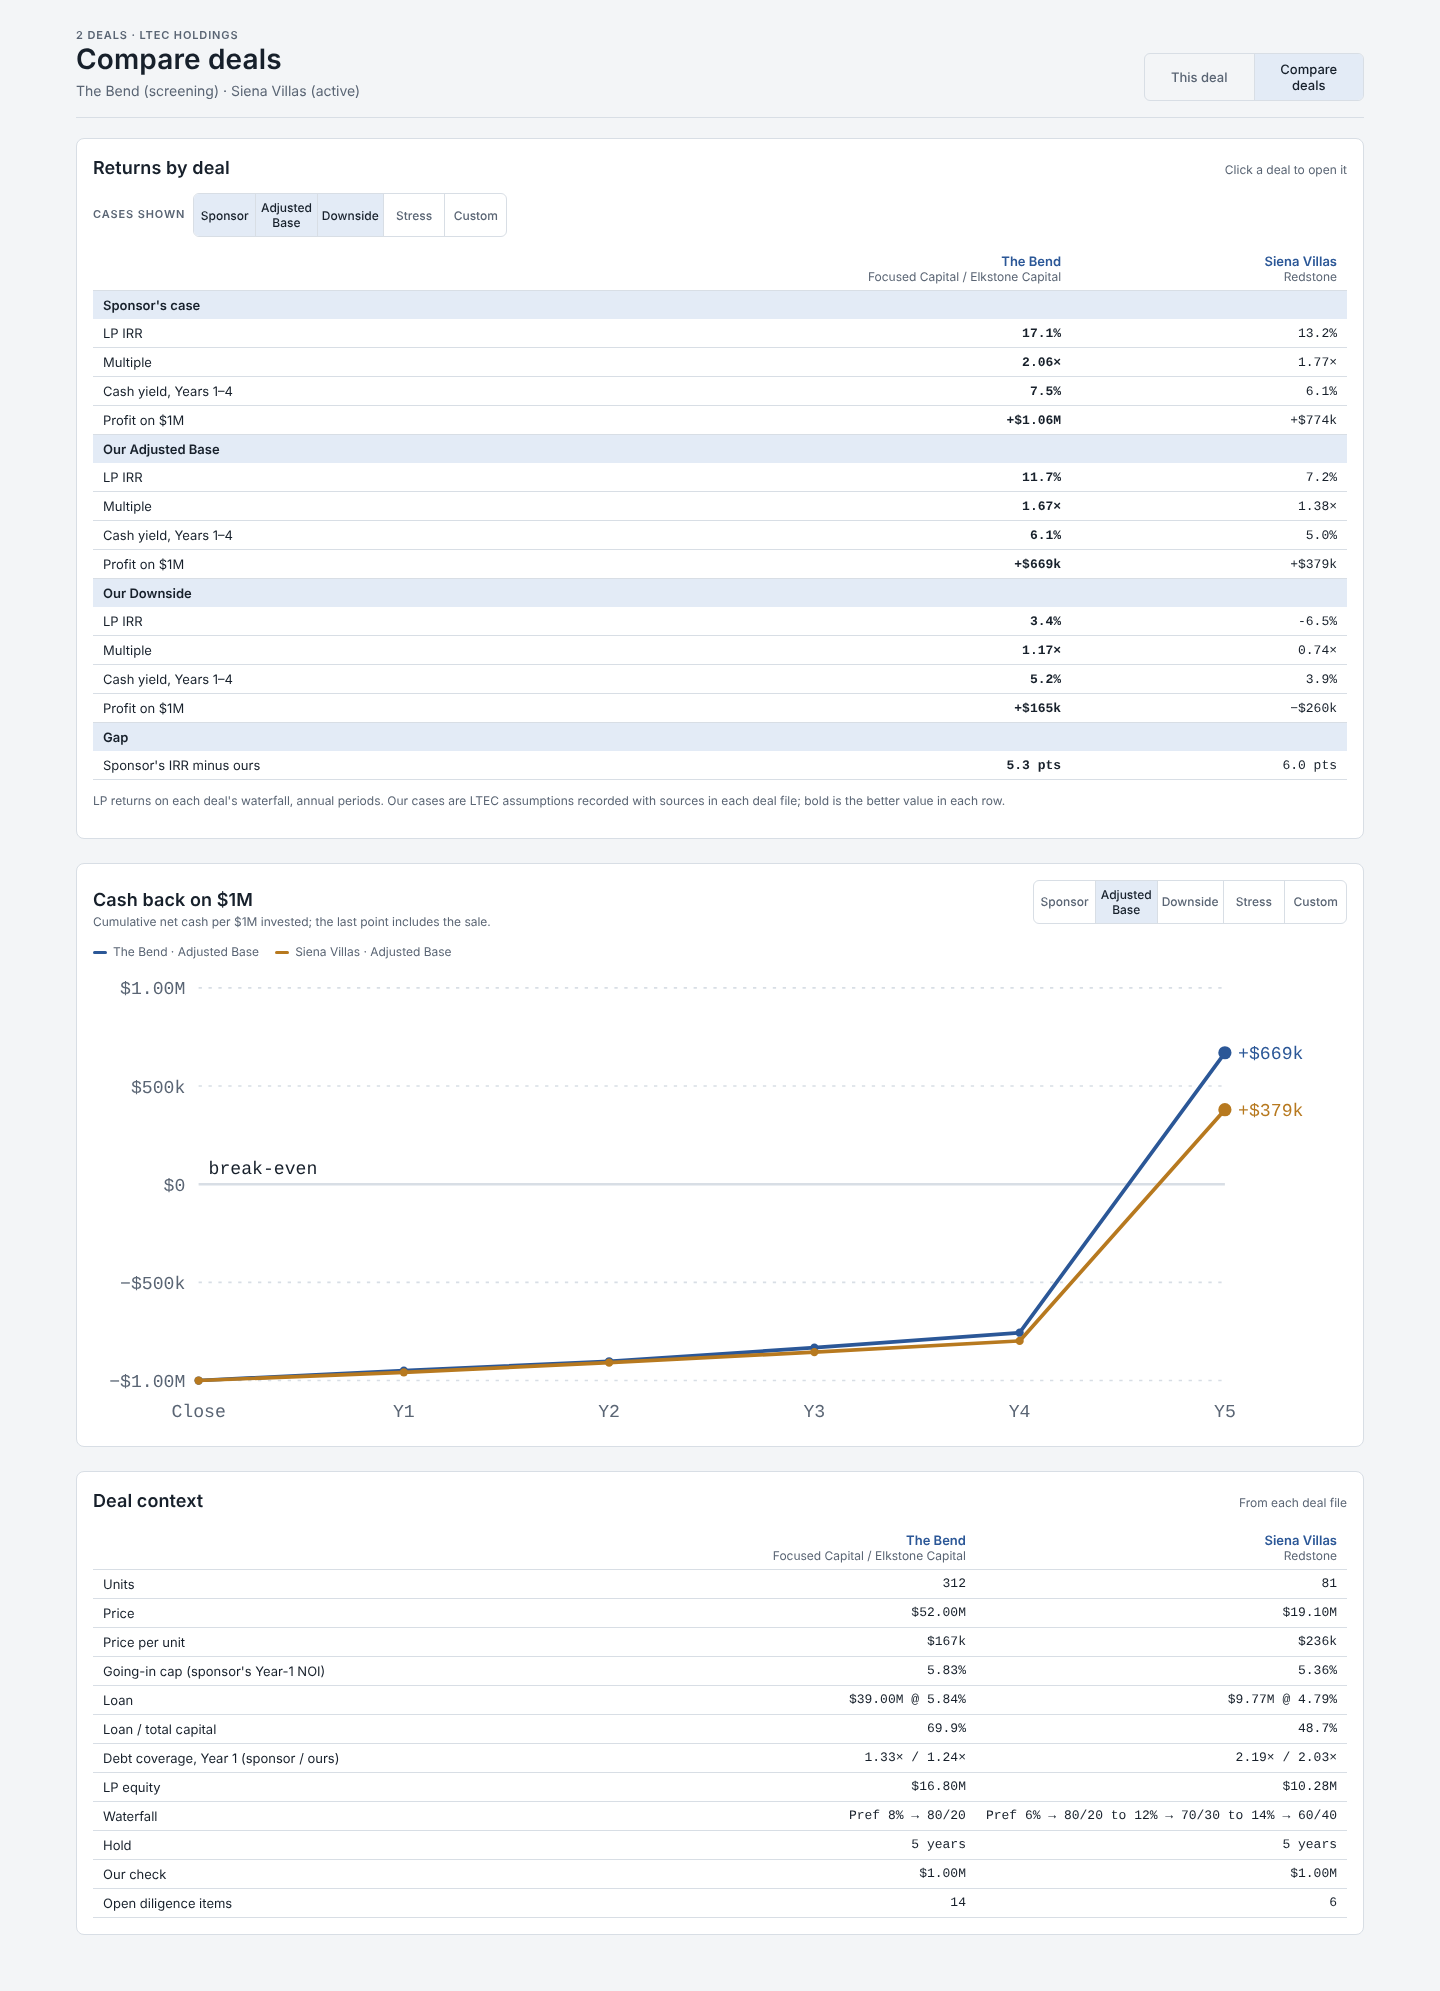
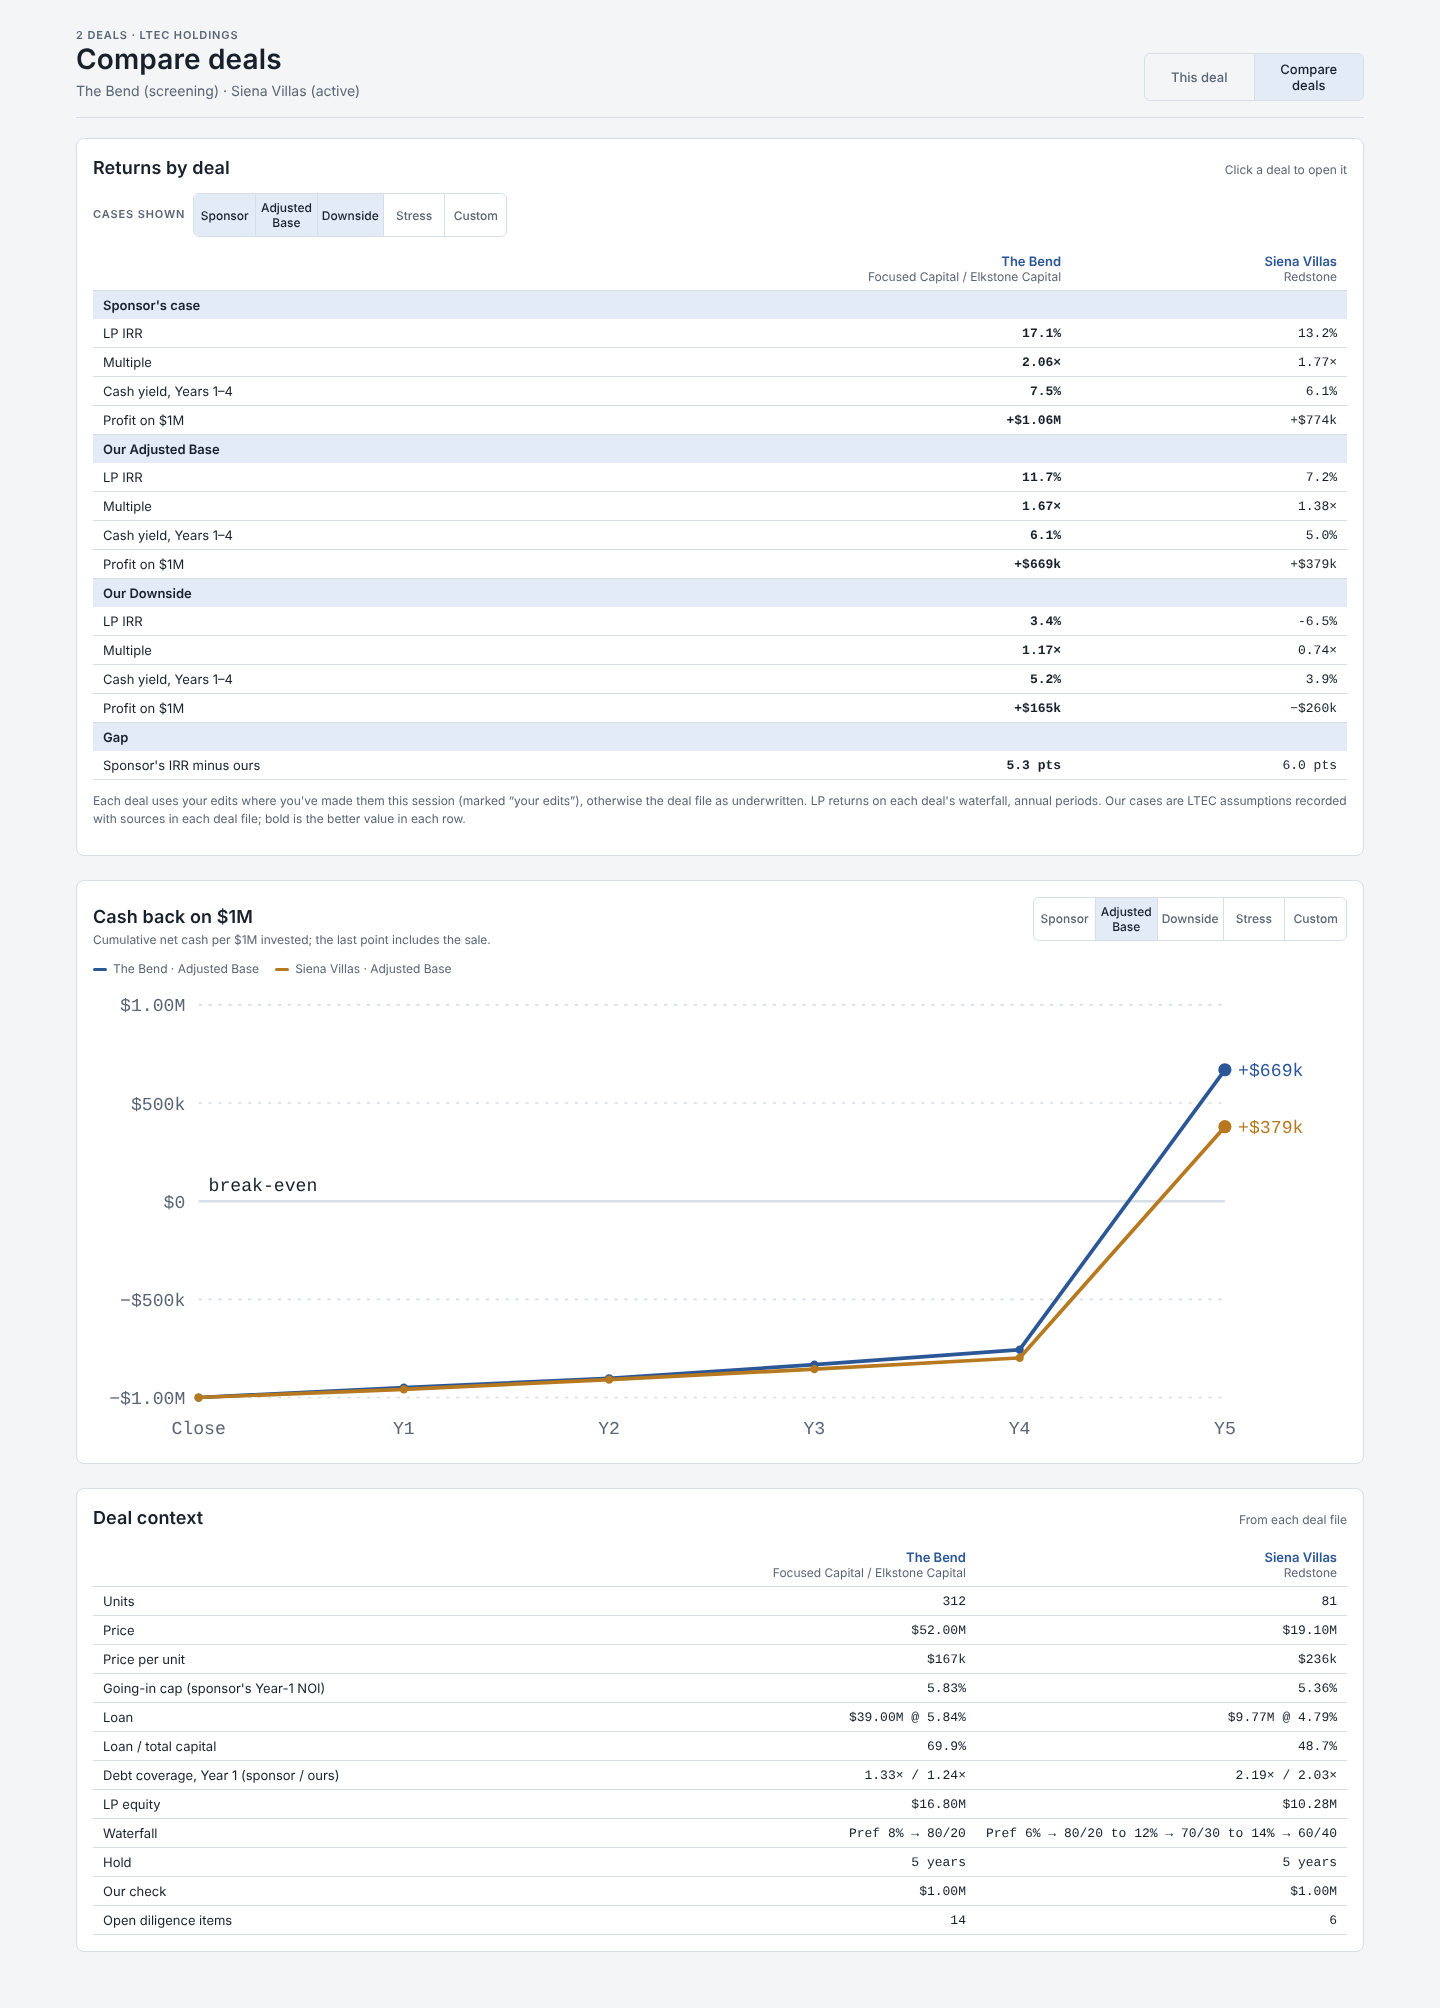
Keep each deal's edits across deal switches
Switching deals no longer resets the deal you leave: each deal keeps its inputs (and active scenario /
variant) for the session. The comparison and the Ask panel use every deal's edits, flagged "your edits";
the picker marks edited deals.

Claude-Session: https://claude.ai/code/session_01Y7jyxUvMdLQjeNXNXqJoNA

diff --git a/web/index.template.html b/web/index.template.html
@@ -1198,6 +1198,7 @@ function diffPaths(a, b, pre = "", out = []) {
   return out;
 }
 function markChanged() {
+  refreshPicker();
   const changed = new Set(diffPaths(inputs, DEFAULTS));
   document.querySelectorAll("[data-path]").forEach((el) => {
     const p = el.dataset.path;
@@ -1654,8 +1655,8 @@ const cmpCache = {};
 let cmpRole = "base";
 function compareData() {
   return SLUGS.map((slug, i) => {
-    const edited = slug === META.slug && diffPaths(inputs, DEFAULTS).length > 0;
-    const inp = slug === META.slug ? inputs : DEALS[slug];
+    const edited = isEdited(slug);
+    const inp = dealInputs(slug);
     let cases;
     if (!edited && cmpCache[slug]) cases = cmpCache[slug];
     else {
@@ -1699,7 +1700,7 @@ function renderCompare() {
   if (cmpShown.has("sponsor") && cmpShown.has("base")) body += `<tr class="cgrp"><td colspan="${data.length + 1}">Gap</td></tr>` + row("Sponsor's IRR minus ours", data.map((d) => d.cases.sponsor && d.cases.base ? d.cases.sponsor.lp.irr - d.cases.base.lp.irr : null),
     (v) => (v * 100).toFixed(1) + " pts", true);
   document.getElementById("cmpReturns").innerHTML = `<table class="cmp">${head}<tbody>${body}</tbody></table>`;
-  document.getElementById("cmpNote").textContent = "LP returns on each deal's waterfall, annual periods. Our cases are LTEC assumptions recorded with sources in each deal file; bold is the better value in each row.";
+  document.getElementById("cmpNote").textContent = "Each deal uses your edits where you've made them this session (marked “your edits”), otherwise the deal file as underwritten. LP returns on each deal's waterfall, annual periods. Our cases are LTEC assumptions recorded with sources in each deal file; bold is the better value in each row.";
 
   // context
   const ctx = (label, f) => `<tr><td class="lbl">${label}</td>${data.map((d) => `<td class="n">${f(d)}</td>`).join("")}</tr>`;
@@ -1798,7 +1799,7 @@ function renderAskChips() {
 }
 
 // ---- engine helpers for the tools
-function dealInputs(slug) { return slug === META.slug ? inputs : DEALS[slug]; }
+function dealInputs(slug) { return slug === META.slug ? inputs : working[slug] ? working[slug].inputs : DEALS[slug]; }
 function needDeal(slug) {
   const s = String(slug || META.slug);
   if (!DEALS[s]) throw new Error(`Unknown deal "${s}". Deals: ${SLUGS.join(", ")}`);
@@ -1868,7 +1869,7 @@ const ASK_TOOLS = [
       setAskStatus(`Reading ${m.name}…`);
       return {
         deal: slug, name: m.name, sponsor: m.sponsor, status: m.status, summary: m.summary, location: (m.ui || {}).location,
-        using: slug === META.slug && diffPaths(inputs, DEFAULTS).length ? "the viewer's current edits on the dashboard" : "the deal file as underwritten",
+        using: isEdited(slug) ? "the viewer's current edits on the dashboard (changed inputs: " + diffPaths(dealInputs(slug), DEALS[slug]).slice(0, 20).join(", ") + ")" : "the deal file as underwritten",
         inputs: inputDigest(inp),
         cases: Object.keys(inp.cases).map((k) => Object.assign({ kind: inp.cases[k].kind, note: inp.cases[k].note || "", from: inp.cases[k].from || null }, caseResult(E.runCase(k, inp), inp))),
         variants: (m.alternatives || []).map((a) => ({ name: a.name, note: a.note, changes: a.changes })),
@@ -1958,7 +1959,7 @@ function askContext() {
     "- If the deal files don't hold what's needed, say so. This is analysis of the files, not legal, tax or investment advice; don't add disclaimers beyond a short note when it truly matters.",
     "- Tool rates are decimals (0.06 = 6%). What-ifs never change the dashboard; the viewer gets a button to open each one.",
     "",
-    "Where the viewer is: " + (view === "compare" ? "the Compare deals view." : `the ${META.name} deal view (slug "${META.slug}")${diffPaths(inputs, DEFAULTS).length ? ", with unsaved edits to its inputs (tools use them for this deal)" : ""}.`),
+    "Where the viewer is: " + (view === "compare" ? "the Compare deals view." : `the ${META.name} deal view (slug "${META.slug}").`) + (SLUGS.some(isEdited) ? ` The viewer has unsaved edits on: ${SLUGS.filter(isEdited).map((k) => DEALS[k].meta.name).join(", ")}; tools use those edits.` : ""),
     "Deals: " + SLUGS.map((k) => `${DEALS[k].meta.name} (slug "${k}", ${DEALS[k].meta.status}, cases: ${Object.keys(dealInputs(k).cases).map((c) => `${c} = ${dealInputs(k).cases[c].label}`).join("; ")})`).join(" | "),
   ].join("\n");
 }
@@ -2097,10 +2098,21 @@ async function connectAsk() {
 }
 
 /* ------------------------------------------------------------ boot and deal switching */
+// Each deal keeps its edits for the session: leaving a deal stores them, coming back restores them, and the
+// comparison and Ask use them. They are not saved anywhere; Save keeps a scenario for good.
+const working = {};
+function isEdited(slug) { const w = slug === META.slug ? inputs : working[slug] && working[slug].inputs; return !!w && diffPaths(w, DEALS[slug]).length > 0; }
+function refreshPicker() {
+  const pick = document.getElementById("dealPick");
+  if (!pick) return;
+  [...pick.options].forEach((o) => { const m = DEALS[o.value].meta; o.textContent = `${m.name} · ${m.status}${isEdited(o.value) ? " · edited" : ""}`; });
+}
 function bootDeal(slug) {
+  if (META && inputs && META.slug !== slug) working[META.slug] = { inputs, activeScenario, activeVariant };
   setDeal(slug);
-  inputs = clone(DEFAULTS); editCase = detailCase = cbpCase = PRIMARY; cbpParty = "p0"; whPerson = 0;
-  activeScenario = null; activeVariant = null; results = null;
+  const w = working[slug];
+  inputs = w ? w.inputs : clone(DEFAULTS); editCase = detailCase = cbpCase = PRIMARY; cbpParty = "p0"; whPerson = 0;
+  activeScenario = w ? w.activeScenario : null; activeVariant = w ? w.activeVariant : null; results = null;
   DEFAULT_RESULTS = E.runAll(DEFAULTS);
   document.getElementById("dealName").textContent = META.name;
   document.getElementById("repoPath").textContent = `deals/${META.slug}/deal.json`;

diff --git a/README.md b/README.md
@@ -37,8 +37,9 @@ that viewer's Claude usage.
 **Compare deals** (the view switch at the top, or `#compare`) puts every deal side by side: LP IRR, multiple, Years 1-4
 cash yield and profit per $1M for the sponsor's case, our Adjusted Base and our Downside; the sponsor-vs-us IRR gap;
 cumulative cash per $1M by deal for a chosen case; and deal context (price per unit, going-in cap, loan / total capital,
-Year-1 debt coverage, waterfall, open diligence). Deals run as underwritten in their files, except the open deal, which
-uses your current edits (flagged). Click a deal to open it.
+Year-1 debt coverage, waterfall, open diligence). Each deal keeps your edits for the session as you switch between deals; the
+comparison and the Ask panel use them (flagged "your edits", and "edited" in the picker). Edits last until the page
+is closed; Save keeps a scenario for good. Click a deal to open it.
 
 ## Our cases on every deal
 
